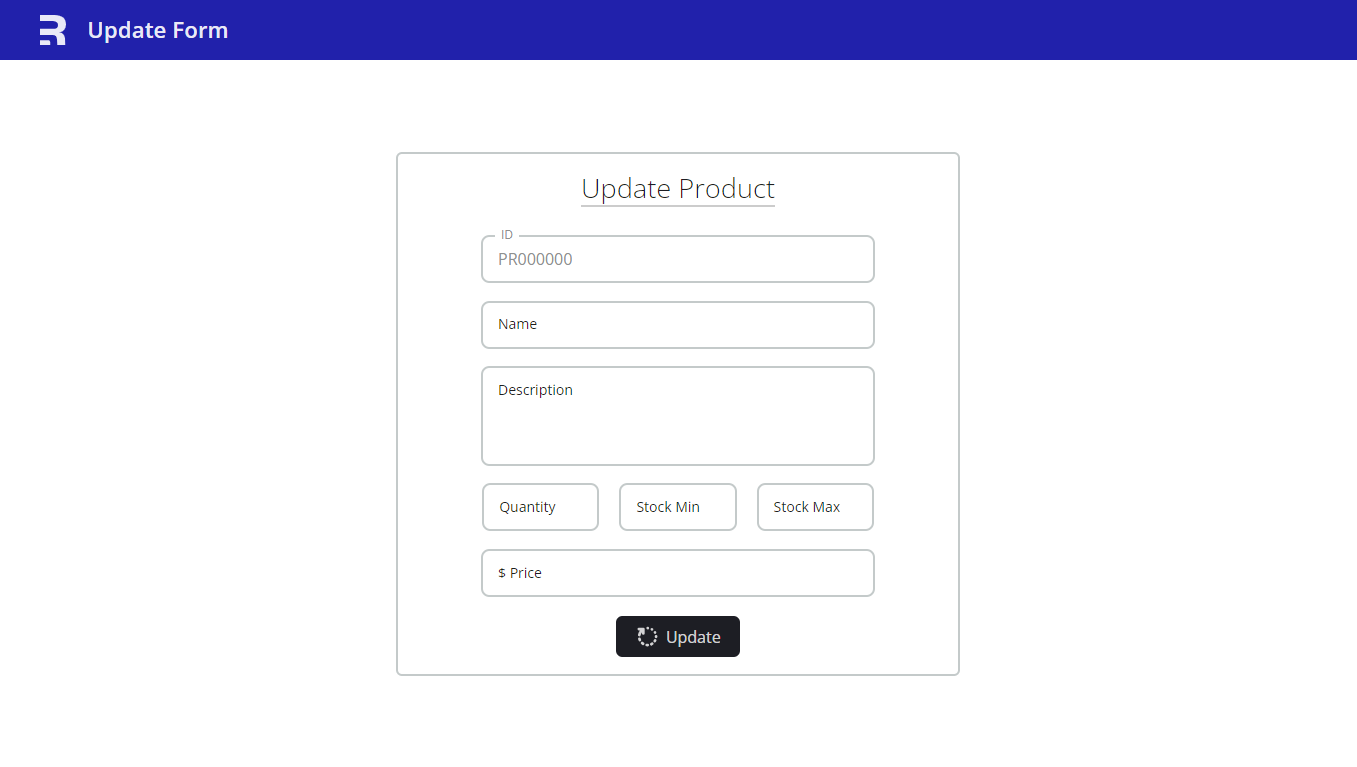
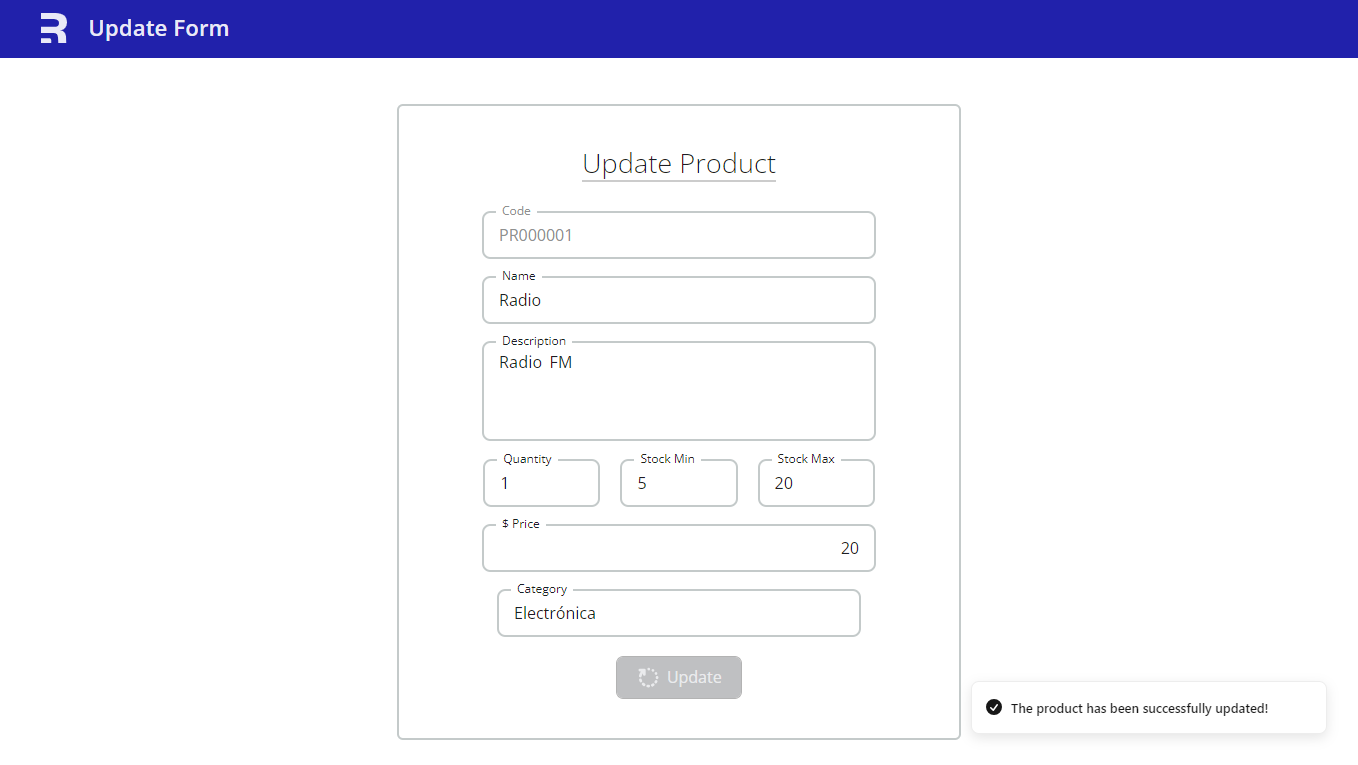
[fix] Formulario de ejemplo, update con el método PATCH

diff --git a/remix_form_example/app/routes/product.$code.tsx b/remix_form_example/app/routes/product.$code.tsx
@@ -23,6 +23,7 @@ import { isDecimal } from '~/helpers/isDecimal'
 import styles from '~/styles/index.module.css'
 
 export default function Index() {
+  const FIVE_SECONDS = 5000
   const [searchParams] = useSearchParams()
 
   const defaultValuesOfFields: ProductFormInterface = {
@@ -109,12 +110,22 @@ export default function Index() {
 
   // Initial
   useEffect(() => {
+    const submitBtn = document.querySelector('button[type="submit"]')
+    submitBtn?.classList.add('button')
+
     if (state.code === '') {
-      throw new Error('Oops! The parameter "codigo" was expected with a value.')
+      document.querySelector('form')!.style.display = 'none'
+      const ONE_MINUTE = 60000
+
+      toast.error('Oops! The parameter "codigo" was expected with a value.', {
+        duration: ONE_MINUTE
+      })
     }
 
-    fetchProduct()
-    fetchCategories()
+    if (searchParams.get('codigo') !== '') {
+      fetchProduct()
+      fetchCategories()
+    }
   }, [])
 
   const onSubmit = async (event: FormEvent<HTMLFormElement>) => {
@@ -151,11 +162,21 @@ export default function Index() {
       )
 
       const dataOfServer: ProductFetchInterface = await res.json()
-      const FIVE_SECONDS = 5000
 
       toast.success('The product has been successfully updated!', {
         duration: FIVE_SECONDS
       })
+
+      const submitBtn = document.querySelector('button[type="submit"]')
+      submitBtn?.classList.remove('button')
+      submitBtn?.classList.add('buttonDisabled')
+      submitBtn?.setAttribute('disabled', '')
+
+      setTimeout(() => {
+        submitBtn?.removeAttribute('disabled')
+        submitBtn?.classList.remove('buttonDisabled')
+        submitBtn?.classList.add('button')
+      }, FIVE_SECONDS)
 
       setState({
         ...state,
@@ -314,7 +335,7 @@ export default function Index() {
 
         <div data-title='Product Category' className={styles.field}>
           <select
-            name='category'
+            name='categoryCode'
             id='product_category'
             onChange={handleField}
             value={state.categoryCode}
@@ -337,7 +358,7 @@ export default function Index() {
           ></label>
         </div>
 
-        <button type='submit' className={styles.button}>
+        <button type='submit'>
           <UpdateIcon height='25' width='25' fill='rgba(255, 255, 255, 0.8)' />
           Update
         </button>

diff --git a/remix_form_example/app/styles/index.css b/remix_form_example/app/styles/index.css
@@ -179,3 +179,57 @@ body {
   -moz-osx-font-smoothing: grayscale;
   overflow-x: hidden;
 }
+
+:is(.button, .buttonDisabled) {
+  border-radius: 0.4rem;
+  outline-width: 1px;
+  outline-style: solid;
+  outline-color: var(--dark);
+}
+
+.button,
+.buttonDisabled {
+  padding: 0.5rem 1.2rem;
+  display: flex;
+  align-items: center;
+  justify-content: center;
+  gap: 0.35rem;
+  user-select: none;
+  transition: background-color 600ms ease-in-out;
+}
+
+.button {
+  outline: none;
+  color: rgba(255, 255, 255, 0.8);
+  background-color: var(--dark);
+}
+.button:hover {
+  background-color: #535359;
+}
+.buttonDisabled {
+  color: #eaebed;
+  background-color: #bfc0c2;
+  outline-color: rgb(179, 179, 179);
+  cursor: not-allowed;
+}
+.buttonDisabled:hover {
+  background-color: #cad0d0;
+}
+.buttonDisabled svg {
+  fill: #eaebed;
+}
+
+.button svg {
+  transition: transform 800ms ease-in-out, scale 800ms ease-in-out;
+}
+
+.buttonDisabled svg {
+  transition: none;
+}
+.button:hover svg {
+  transform: rotate(90deg);
+  scale: 1.1;
+}
+.buttonDisabled:hover svg {
+  transform: none;
+}

diff --git a/remix_form_example/app/styles/index.module.css b/remix_form_example/app/styles/index.module.css
@@ -7,7 +7,7 @@
   place-items: center;
 }
 
-:is(.form, .input, .button) {
+:is(.form, .input) {
   border-radius: 0.4rem;
   outline-width: 1px;
   outline-style: solid;
@@ -50,31 +50,6 @@
   .input {
     width: calc(100vw - 50vw);
   }
-}
-
-.button {
-  outline: none;
-  padding: 0.5rem 1.2rem;
-  color: rgba(255, 255, 255, 0.8);
-  background-color: var(--dark);
-  display: flex;
-  align-items: center;
-  justify-content: center;
-  gap: 0.35rem;
-  user-select: none;
-  transition: background-color 600ms ease-in-out;
-}
-.button:hover {
-  background-color: #535359;
-}
-.button svg {
-  transition:
-    transform 800ms ease-in-out,
-    scale 800ms ease-in-out;
-}
-.button:hover svg {
-  transform: rotate(90deg);
-  scale: 1.1;
 }
 
 .label::before {
@@ -164,10 +139,10 @@ textarea::-webkit-scrollbar-thumb:hover {
   left: 0.75rem;
   color: #8f9090;
 }
-.input[type=number] {
+.input[type='number'] {
   width: 5.2rem;
 }
-.input[name=price] {
+.input[name='price'] {
   text-align: end;
 }
 

diff --git a/remix_form_example/vite.config.ts b/remix_form_example/vite.config.ts
@@ -14,7 +14,6 @@ export default defineConfig({
     remix({
       routes(defineRoutes) {
         return defineRoutes(route => {
-          route('/', './routes/_index.tsx', { index: true }),
           route('/product', './routes/product.$code.tsx', { index: false })
         })
       }

diff --git a/remix_form_example/README.md b/remix_form_example/README.md
@@ -4,10 +4,6 @@
 
 ![Preview 1](./public/screenshots/preview-1.png)
 
-<br>
-
-![Preview 2](./public/screenshots/preview-2.png)
-
 ## 📦 Installation
 
 ```shell
@@ -18,11 +14,44 @@ pnpm i
 
 ```shell
 pnpm dev
+
+```
+
+### ⚡ Build
+
+```shell
+pnpm build
+
+:: Type the corresponding letter stating that
+:: you want to delete the /screenshots folder.
+
+screenshots, ¿Está seguro (S/N)? s
+```
+
+### 🚀 Run Build
+
+```shell
+pnpm start
 ```
 
 ## 🧐 Wait a moment
 
 Don't forget to create the `.env` file with its respective variables.
+
+## URL Example
+
+Once you've launched the app, place the port indicated in the `.env` file in the URL and the product code in the query parameter `codigo`
+
+<br>
+
+**Example**
+```shell
+http://localhost:8082/product?codigo=PR000000
+```
+
+## Author
+
+Moises Reyes
 
 ## 🔑 License
 

diff --git a/README.md b/README.md
@@ -1,1 +1,17 @@
 # Proyecto Electiva - 6to Semestre
+
+## Update 🔄 Operation of CRUD
+
+No olvides, que antes de ejecutar la aplicación BackEnd.
+Debes ejecutar el servicio de MySQL, preferiblemente en
+el puerto `3306` de lo contrario, te tocará configurar en
+el archivo `.env` del proyecto `/backend` el puerto de la
+URL que pertenece a la conexión de la base de datos.
+
+## Contribuidores
+- Moises Reyes
+- Angel Rodriguez
+- Carlos Mendoza
+- Joselyn Aponte
+- Daniela Sivira
+- Mauricio
